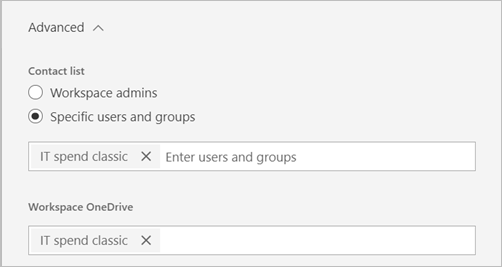
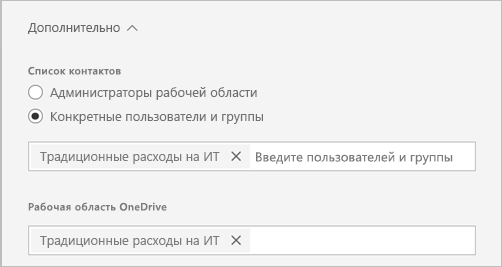
commit translated contents

diff --git a/powerbi-docs/collaborate-share/service-dataset-impact-analysis.md b/powerbi-docs/collaborate-share/service-dataset-impact-analysis.md
@@ -8,12 +8,12 @@ ms.topic: conceptual
 ms.date: 04/13/2020
 ms.author: painbar
 LocalizationGroup: ''
-ms.openlocfilehash: edb34fc5592a6b851ae2c48690a772d75049fb48
-ms.sourcegitcommit: 0e9e211082eca7fd939803e0cd9c6b114af2f90a
+ms.openlocfilehash: dd7387bcb008d10ec8887ac777431b5423d43f4c
+ms.sourcegitcommit: a7b142685738a2f26ae0a5fa08f894f9ff03557b
 ms.translationtype: HT
 ms.contentlocale: ru-RU
-ms.lasthandoff: 05/13/2020
-ms.locfileid: "83274864"
+ms.lasthandoff: 05/28/2020
+ms.locfileid: "84120323"
 ---
 # <a name="dataset-impact-analysis"></a>Анализ влияния на наборы данных
 
@@ -54,7 +54,7 @@ ms.locfileid: "83274864"
 
 ## <a name="notify-contacts"></a>Уведомление контактов
 
-Если вы уже внесли или собираетесь внести изменения в набор данных, возможно, вам следует сообщить об этом соответствующим пользователям. Когда вы уведомляете контакты, сообщение электронной почты отправляется [списку контактов](../collaborate-share/service-create-the-new-workspaces.md#workspace-contact-list) во всех затронутых рабочих областях. Ваше имя появится в сообщении электронной почты, чтобы контакты могли найти вас и ответить в новой цепочке сообщений. 
+Если вы уже внесли или собираетесь внести изменения в набор данных, возможно, вам следует сообщить об этом соответствующим пользователям. Когда вы уведомляете контакты, сообщение электронной почты отправляется [списку контактов](../collaborate-share/service-create-the-new-workspaces.md#create-a-contact-list) во всех затронутых рабочих областях. Ваше имя появится в сообщении электронной почты, чтобы контакты могли найти вас и ответить в новой цепочке сообщений. 
 
 1. Щелкните **Уведомить контакты** на боковой панели анализа влияния. Откроется диалоговое окно уведомления контактов.
 

diff --git a/powerbi-docs/connect-data/refresh-troubleshooting-refresh-scenarios.md b/powerbi-docs/connect-data/refresh-troubleshooting-refresh-scenarios.md
@@ -1,20 +1,20 @@
 ---
 title: Устранение неполадок в сценариях обновления
 description: 'Устранение неполадок в сценариях обновления '
-author: maggiesMSFT
+author: davidiseminger
 ms.reviewer: kayu
 ms.service: powerbi
 ms.subservice: powerbi-service
 ms.topic: troubleshooting
 ms.date: 09/13/2019
-ms.author: maggies
+ms.author: davidi
 LocalizationGroup: Data refresh
-ms.openlocfilehash: a490951808271cb845c1ec558344bcf5fdc6c145
-ms.sourcegitcommit: a72567f26c1653c25f7730fab6210cd011343707
+ms.openlocfilehash: 38f3b9e40001b5cc3d90d35ed56e768237345e5d
+ms.sourcegitcommit: a7b142685738a2f26ae0a5fa08f894f9ff03557b
 ms.translationtype: HT
 ms.contentlocale: ru-RU
-ms.lasthandoff: 05/19/2020
-ms.locfileid: "83564953"
+ms.lasthandoff: 05/28/2020
+ms.locfileid: "84119794"
 ---
 # <a name="troubleshooting-refresh-scenarios"></a>Устранение неполадок в сценариях обновления 
 
